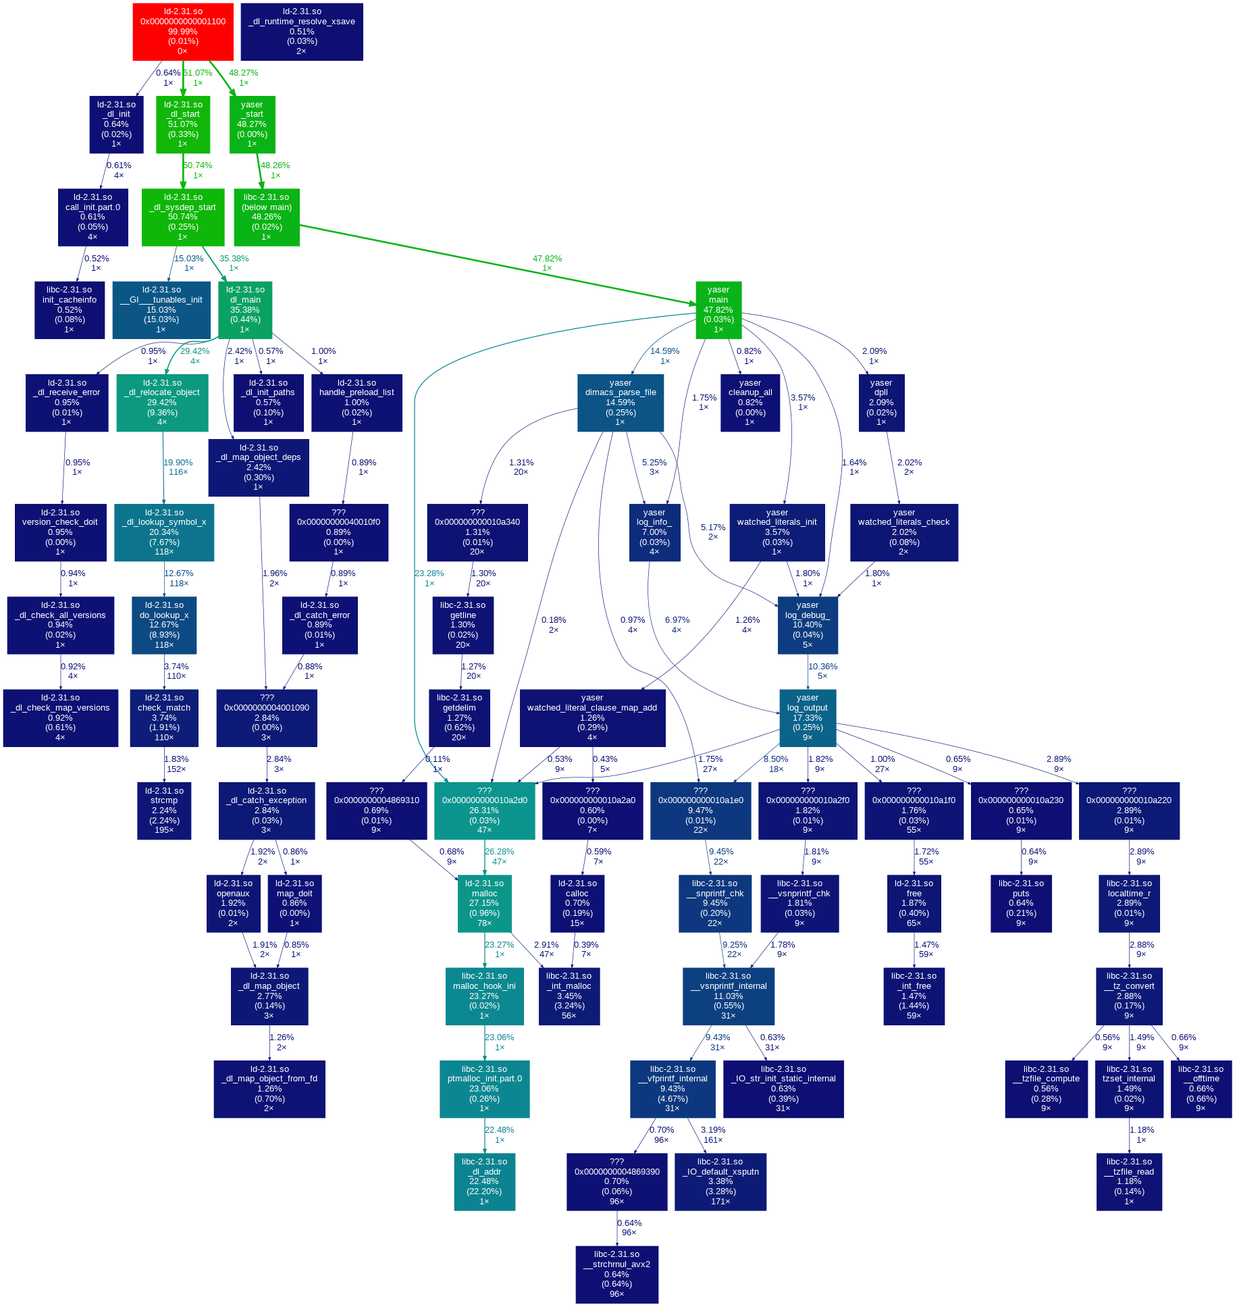
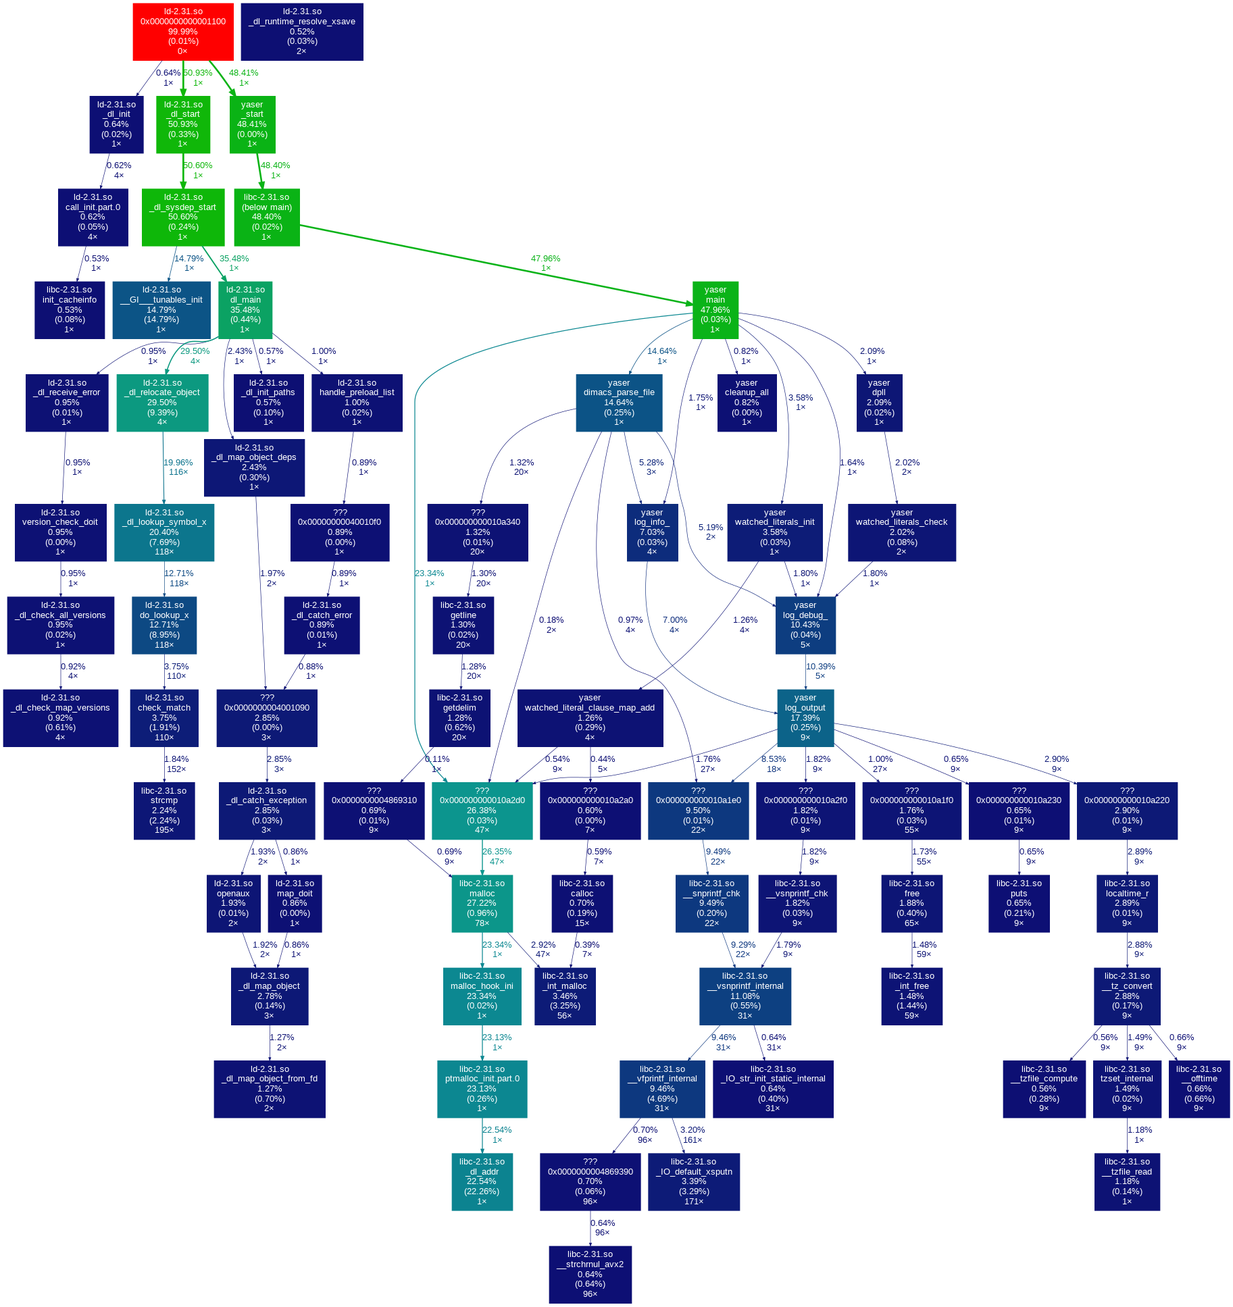
Deploying to gh-pages from @ marcluque/YASER@cdcf742cfaf6ff5cc95c408b56e193f32917be9e 🚀

diff --git a/searchindex.js b/searchindex.js
@@ -1,1 +1,1 @@
-Search.setIndex({"docnames": ["index", "reports/address-sanitizer", "reports/benchmark", "reports/callgrind", "reports/complexity", "reports/gnu-profiler", "reports/index", "reports/memory-sanitizer", "reports/ub-sanitizer", "reports/unit-test", "reports/valgrind-report"], "filenames": ["index.rst", "reports/address-sanitizer.rst", "reports/benchmark.rst", "reports/callgrind.rst", "reports/complexity.rst", "reports/gnu-profiler.rst", "reports/index.rst", "reports/memory-sanitizer.rst", "reports/ub-sanitizer.rst", "reports/unit-test.rst", "reports/valgrind-report.rst"], "titles": ["YASER\u2019s Documentation", "Address Sanitizer", "Benchmark", "Callgrind", "Complexity", "GNU Profiler", "Reports", "Memory Sanitizer", "Undefined Behavior Sanitizer", "Unit Test", "Valgrind"], "terms": {"20": [1, 3, 4, 7, 8, 10], "17": [1, 4, 7, 8], "38": 1, "yaser": [1, 3, 7, 8, 10], "32minfo": [1, 3, 7, 8, 10], "0m": [1, 3, 7, 8, 10], "dimacs_pars": [1, 3, 4, 7, 8, 10], "c": [1, 3, 4, 7, 8, 10], "32m": [1, 3, 7, 8, 10], "liter": [1, 3, 4, 7, 8, 10], "4": [1, 3, 4, 7, 8, 10], "distinct": [1, 3, 7, 8, 10], "variabl": [1, 3, 7, 8, 10], "2": [1, 3, 4, 7, 8, 10], "claus": [1, 3, 7, 8, 10], "3": [1, 3, 4, 7, 8, 10], "main": [1, 3, 4, 7, 8, 10], "32mresult": [1, 3, 7, 8, 10], "unsat": [1, 3, 7, 8, 10], "3679": 3, "call": 3, "graph": 3, "gener": 3, "cach": 3, "profil": [3, 6], "copyright": [3, 10], "2002": [3, 10], "2017": [3, 10], "gnu": [3, 6, 10], "gpl": [3, 10], "d": [3, 10], "josef": 3, "weidendorf": 3, "et": [3, 10], "al": [3, 10], "us": [3, 10], "valgrind": [3, 6], "15": [3, 4, 10], "0": [3, 4, 10], "libvex": [3, 10], "rerun": [3, 10], "h": [3, 10], "info": [3, 10], "command": [3, 10], "i": [3, 10], "satlib": [3, 10], "pigeonhol": [3, 10], "1": [3, 4, 10], "cnf": [3, 10], "warn": 3, "l3": 3, "found": 3, "its": 3, "data": 3, "ll": 3, "simul": 3, "For": [3, 10], "interact": 3, "control": 3, "run": 3, "callgrind_control": 3, "18": [3, 4, 10], "01": 3, "36mdebug": [3, 10], "36msuccessfulli": [3, 10], "open": [3, 10], "file": [3, 4, 10], "36mpars": [3, 10], "formula": [3, 4, 10], "x1": [3, 10], "x2": [3, 10], "watched_liter": [3, 4, 10], "36mwatch": [3, 10], "ar": [3, 10], "initi": [3, 10], "36miniti": [3, 10], "done": [3, 10], "36mclaus": [3, 10], "conflict": [3, 4, 10], "event": 3, "ir": 3, "dr": 3, "dw": 3, "i1mr": 3, "d1mr": 3, "d1mw": 3, "ilmr": 3, "dlmr": 3, "dlmw": 3, "bc": 3, "bcm": 3, "bi": 3, "bim": 3, "collect": 3, "322261": 3, "71065": 3, "26404": 3, "1823": 3, "2713": 3, "766": 3, "1683": 3, "2206": 3, "697": 3, "61040": 3, "7145": 3, "1223": 3, "284": 3, "ref": 3, "322": 3, "261": 3, "i1": 3, "miss": 3, "823": 3, "lli": 3, "683": 3, "rate": 3, "57": 3, "52": 3, "97": 3, "469": 3, "71": 3, "065": 3, "rd": 3, "26": 3, "404": 3, "wr": 3, "d1": 3, "479": 3, "713": 3, "lld": 3, "903": 3, "206": 3, "6": [3, 4], "8": [3, 4], "9": [3, 4], "5": [3, 4], "302": 3, "536": 3, "586": 3, "889": 3, "branch": 3, "62": [3, 4], "263": 3, "61": 3, "040": 3, "cond": 3, "223": 3, "ind": 3, "mispredict": 3, "7": [3, 4], "429": 3, "145": 3, "mispr": 3, "11": [3, 4], "23": [3, 4], "score": 4, "ln": 4, "ct": 4, "nc": 4, "name": 4, "line": 4, "proc": 4, "src": 4, "watch": 4, "sat_clause_set": 4, "24": 4, "sat_clause_set_exists_unsat": 4, "assign": 4, "assignment_stack": 4, "assignment_stack_clear": 4, "21": 4, "assignment_stack_reset": 4, "27": 4, "assignment_stack_empti": 4, "31": 4, "assignment_stack_ful": 4, "unit_clause_stack": 4, "unit_clause_stack_clear": 4, "unit_clause_stack_reset": 4, "25": 4, "unit_clause_stack_empti": 4, "29": 4, "unit_clause_stack_ful": 4, "sat_clause_set_add": 4, "sat_clause_set_contain": 4, "41": 4, "unit_clause_stack_pop": 4, "global": 4, "34": 4, "formula_clear": 4, "47": 4, "assignment_stack_pop": 4, "10": 4, "assignment_stack_init": 4, "unit_clause_stack_init": 4, "log": 4, "42": [4, 8], "log_info_": 4, "51": 4, "log_error_": 4, "33": 4, "unit_clause_stack_push": 4, "32": 4, "log_debug_": 4, "dpll": 4, "update_assign": 4, "clause_resolut": 4, "resolvent_variable_table_clear": 4, "conflict_resolut": 4, "resolve_conflict": 4, "clause_literal_map": 4, "clause_literal_map_clear": 4, "clause_literal_map_get": 4, "watched_literal_clause_map": 4, "watched_literal_clause_map_get": 4, "12": 4, "cleanup": 4, "cleanup_al": 4, "13": 4, "resolvent_literal_table_add": 4, "watched_literal_clause_map_clear": 4, "pars": 4, "init": 4, "30": 4, "decid": 4, "35": 4, "assignment_stack_push": 4, "bcp": 4, "backtrack": 4, "clause_literal_map_add": 4, "79": 4, "tokenize_head": 4, "formula_init": 4, "tokenize_claus": 4, "92": 4, "watched_literals_check": 4, "19": 4, "log_output": 4, "watched_literals_init": 4, "16": 4, "14": 4, "55": 4, "find_new_liter": 4, "watched_literal_clause_map_add": 4, "parse_flag": 4, "28": 4, "46": 4, "43": [4, 7], "check_watched_literal_partn": 4, "print_formula": 4, "clause_resolution_build_resolv": 4, "76": 4, "100": 4, "dimacs_parse_fil": 4, "histogram": 4, "rang": 4, "lin": 4, "448": 4, "procedur": 4, "50": 4, "non": 4, "comment": 4, "averag": 4, "il": 4, "75": 4, "higher": 4, "half": 4, "highest": 4, "address": 6, "sanit": 6, "benchmark": 6, "callgrind": 6, "complex": 6, "memori": [6, 10], "undefin": 6, "behavior": 6, "unit": 6, "test": 6, "gcov": 6, "3101": 10, "memcheck": 10, "error": 10, "detector": 10, "julian": 10, "seward": 10, "00": 10, "heap": 10, "summari": 10, "exit": 10, "byte": 10, "block": 10, "total": 10, "usag": 10, "63": 10, "alloc": 10, "free": 10, "90": 10, "514": 10, "all": 10, "were": 10, "freed": 10, "leak": 10, "possibl": 10, "list": 10, "detect": 10, "suppress": 10, "": 10, "from": 10, "context": 10}, "objects": {}, "objtypes": {}, "objnames": {}, "titleterms": {"yaser": 0, "": 0, "document": 0, "address": 1, "sanit": [1, 7, 8], "benchmark": 2, "callgrind": 3, "complex": 4, "gnu": 5, "profil": 5, "report": 6, "memori": 7, "undefin": 8, "behavior": 8, "unit": 9, "test": 9, "valgrind": 10}, "envversion": {"sphinx.domains.c": 2, "sphinx.domains.changeset": 1, "sphinx.domains.citation": 1, "sphinx.domains.cpp": 6, "sphinx.domains.index": 1, "sphinx.domains.javascript": 2, "sphinx.domains.math": 2, "sphinx.domains.python": 3, "sphinx.domains.rst": 2, "sphinx.domains.std": 2, "sphinx.ext.intersphinx": 1, "sphinx.ext.todo": 2, "sphinx.ext.viewcode": 1, "sphinx": 56}})
+Search.setIndex({"docnames": ["index", "reports/address-sanitizer", "reports/benchmark", "reports/callgrind", "reports/complexity", "reports/gnu-profiler", "reports/index", "reports/memory-sanitizer", "reports/ub-sanitizer", "reports/unit-test", "reports/valgrind-report"], "filenames": ["index.rst", "reports/address-sanitizer.rst", "reports/benchmark.rst", "reports/callgrind.rst", "reports/complexity.rst", "reports/gnu-profiler.rst", "reports/index.rst", "reports/memory-sanitizer.rst", "reports/ub-sanitizer.rst", "reports/unit-test.rst", "reports/valgrind-report.rst"], "titles": ["YASER\u2019s Documentation", "Address Sanitizer", "Benchmark", "Callgrind", "Complexity", "GNU Profiler", "Reports", "Memory Sanitizer", "Undefined Behavior Sanitizer", "Unit Test", "Valgrind"], "terms": {"20": [1, 3, 4, 7, 8, 10], "34": [1, 4, 7, 8, 10], "31": [1, 3, 4], "yaser": [1, 3, 7, 8, 10], "32minfo": [1, 3, 7, 8, 10], "0m": [1, 3, 7, 8, 10], "dimacs_pars": [1, 3, 4, 7, 8, 10], "c": [1, 3, 4, 7, 8, 10], "32m": [1, 3, 7, 8, 10], "liter": [1, 3, 4, 7, 8, 10], "4": [1, 3, 4, 7, 8, 10], "distinct": [1, 3, 7, 8, 10], "variabl": [1, 3, 7, 8, 10], "2": [1, 3, 4, 7, 8, 10], "claus": [1, 3, 7, 8, 10], "3": [1, 3, 4, 7, 8, 10], "main": [1, 3, 4, 7, 8, 10], "32mresult": [1, 3, 7, 8, 10], "unsat": [1, 3, 7, 8, 10], "3771": 3, "call": 3, "graph": 3, "gener": 3, "cach": 3, "profil": [3, 6], "copyright": [3, 10], "2002": [3, 10], "2017": [3, 10], "gnu": [3, 6, 10], "gpl": [3, 10], "d": [3, 10], "josef": 3, "weidendorf": 3, "et": [3, 10], "al": [3, 10], "us": [3, 10], "valgrind": [3, 6], "15": [3, 4, 10], "0": [3, 4, 10], "libvex": [3, 10], "rerun": [3, 10], "h": [3, 10], "info": [3, 10], "command": [3, 10], "i": [3, 10], "satlib": [3, 10], "pigeonhol": [3, 10], "1": [3, 4, 10], "cnf": [3, 10], "warn": 3, "l3": 3, "found": 3, "its": 3, "data": 3, "ll": 3, "simul": 3, "specifi": 3, "line_s": 3, "64": 3, "assoc": 3, "total_s": 3, "457": 3, "280": 3, "30": [3, 4], "For": [3, 10], "interact": 3, "control": 3, "run": 3, "callgrind_control": 3, "35": [3, 4], "04": 3, "36mdebug": [3, 10], "36msuccessfulli": [3, 10], "open": [3, 10], "file": [3, 4, 10], "05": 3, "36mpars": [3, 10], "formula": [3, 4, 10], "x1": [3, 10], "x2": [3, 10], "watched_liter": [3, 4, 10], "36mwatch": [3, 10], "ar": [3, 10], "initi": [3, 10], "36miniti": [3, 10], "done": [3, 10], "36mclaus": [3, 10], "conflict": [3, 4, 10], "event": 3, "ir": 3, "dr": 3, "dw": 3, "i1mr": 3, "d1mr": 3, "d1mw": 3, "ilmr": 3, "dlmr": 3, "dlmw": 3, "bc": 3, "bcm": 3, "bi": 3, "bim": 3, "collect": 3, "321366": 3, "70888": 3, "26401": 3, "1824": 3, "2808": 3, "765": 3, "1683": 3, "2204": 3, "695": 3, "60759": 3, "7114": 3, "1223": 3, "284": 3, "ref": 3, "321": 3, "366": 3, "i1": 3, "miss": 3, "824": 3, "lli": 3, "683": 3, "rate": 3, "57": 3, "52": 3, "97": 3, "289": 3, "70": 3, "888": 3, "rd": 3, "26": 3, "401": 3, "wr": 3, "d1": 3, "573": 3, "808": 3, "lld": 3, "899": 3, "204": 3, "7": [3, 4], "9": [3, 4], "6": [3, 4], "5": [3, 4], "397": 3, "632": 3, "582": 3, "887": 3, "branch": 3, "61": 3, "982": 3, "60": 3, "759": 3, "cond": 3, "223": 3, "ind": 3, "mispredict": 3, "398": 3, "114": 3, "mispr": 3, "11": [3, 4], "23": [3, 4], "score": 4, "ln": 4, "ct": 4, "nc": 4, "name": 4, "line": 4, "proc": 4, "src": 4, "watch": 4, "sat_clause_set": 4, "24": 4, "sat_clause_set_exists_unsat": 4, "assign": 4, "assignment_stack": 4, "17": 4, "assignment_stack_clear": 4, "21": 4, "assignment_stack_reset": 4, "27": 4, "assignment_stack_empti": 4, "assignment_stack_ful": 4, "unit_clause_stack": 4, "unit_clause_stack_clear": 4, "unit_clause_stack_reset": 4, "25": 4, "unit_clause_stack_empti": 4, "29": [4, 8], "unit_clause_stack_ful": 4, "18": 4, "sat_clause_set_add": 4, "sat_clause_set_contain": 4, "41": 4, "unit_clause_stack_pop": 4, "global": 4, "formula_clear": 4, "47": 4, "assignment_stack_pop": 4, "10": 4, "assignment_stack_init": 4, "unit_clause_stack_init": 4, "log": 4, "42": 4, "log_info_": 4, "51": 4, "log_error_": 4, "33": 4, "unit_clause_stack_push": 4, "32": 4, "log_debug_": 4, "dpll": 4, "update_assign": 4, "clause_resolut": 4, "resolvent_variable_table_clear": 4, "8": 4, "conflict_resolut": 4, "resolve_conflict": 4, "clause_literal_map": 4, "clause_literal_map_clear": 4, "clause_literal_map_get": 4, "watched_literal_clause_map": 4, "watched_literal_clause_map_get": 4, "12": 4, "cleanup": 4, "cleanup_al": 4, "13": 4, "resolvent_literal_table_add": 4, "watched_literal_clause_map_clear": 4, "pars": 4, "init": 4, "decid": 4, "assignment_stack_push": 4, "bcp": 4, "backtrack": 4, "clause_literal_map_add": 4, "79": 4, "tokenize_head": 4, "formula_init": 4, "62": 4, "tokenize_claus": 4, "92": 4, "watched_literals_check": 4, "19": 4, "log_output": 4, "watched_literals_init": 4, "16": 4, "14": 4, "55": 4, "find_new_liter": 4, "watched_literal_clause_map_add": 4, "parse_flag": 4, "28": [4, 7], "46": 4, "43": [4, 10], "check_watched_literal_partn": 4, "print_formula": 4, "clause_resolution_build_resolv": 4, "76": 4, "100": 4, "dimacs_parse_fil": 4, "histogram": 4, "rang": 4, "lin": 4, "448": 4, "procedur": 4, "50": 4, "non": 4, "comment": 4, "averag": 4, "il": 4, "75": 4, "higher": 4, "half": 4, "highest": 4, "address": 6, "sanit": 6, "benchmark": 6, "callgrind": 6, "complex": 6, "memori": [6, 10], "undefin": 6, "behavior": 6, "unit": 6, "test": 6, "gcov": 6, "3283": 10, "memcheck": 10, "error": 10, "detector": 10, "julian": 10, "seward": 10, "heap": 10, "summari": 10, "exit": 10, "byte": 10, "block": 10, "total": 10, "usag": 10, "63": 10, "alloc": 10, "free": 10, "90": 10, "514": 10, "all": 10, "were": 10, "freed": 10, "leak": 10, "possibl": 10, "list": 10, "detect": 10, "suppress": 10, "": 10, "from": 10, "context": 10}, "objects": {}, "objtypes": {}, "objnames": {}, "titleterms": {"yaser": 0, "": 0, "document": 0, "address": 1, "sanit": [1, 7, 8], "benchmark": 2, "callgrind": 3, "complex": 4, "gnu": 5, "profil": 5, "report": 6, "memori": 7, "undefin": 8, "behavior": 8, "unit": 9, "test": 9, "valgrind": 10}, "envversion": {"sphinx.domains.c": 2, "sphinx.domains.changeset": 1, "sphinx.domains.citation": 1, "sphinx.domains.cpp": 6, "sphinx.domains.index": 1, "sphinx.domains.javascript": 2, "sphinx.domains.math": 2, "sphinx.domains.python": 3, "sphinx.domains.rst": 2, "sphinx.domains.std": 2, "sphinx.ext.intersphinx": 1, "sphinx.ext.todo": 2, "sphinx.ext.viewcode": 1, "sphinx": 56}})

diff --git a/reports/callgrind.html b/reports/callgrind.html
@@ -81,45 +81,47 @@
              
   <section id="callgrind">
 <span id="reports-callgrind"></span><h1>Callgrind<a class="headerlink" href="#callgrind" title="Permalink to this heading"></a></h1>
-<div class="highlight-C notranslate"><div class="highlight"><pre><span></span>==3679== Callgrind, a call-graph generating cache profiler
-==3679== Copyright (C) 2002-2017, and GNU GPL&#39;d, by Josef Weidendorfer et al.
-==3679== Using Valgrind-3.15.0 and LibVEX; rerun with -h for copyright info
-==3679== Command: ./yaser -i satlib/pigeonhole/pigeonhole-1.cnf
-==3679== 
---3679-- warning: L3 cache found, using its data for the LL simulation.
-==3679== For interactive control, run &#39;callgrind_control -h&#39;.
-[20:18:01][YASER - [36mDEBUG[0m][dimacs_parser.c]: [36mSuccessfully opened file (satlib/pigeonhole/pigeonhole-1.cnf)[0m
-[20:18:01][YASER - [32mINFO[0m][dimacs_parser.c]: [32m#Literals=4 (not distinct)[0m
-[20:18:01][YASER - [32mINFO[0m][dimacs_parser.c]: [32m#Variables=2[0m
-[20:18:01][YASER - [32mINFO[0m][dimacs_parser.c]: [32m#Clauses=3[0m
-[20:18:01][YASER - [36mDEBUG[0m][dimacs_parser.c]: [36mParsed formula (x1) ∧ (x2) ∧ (¬x1 ∨ ¬x2)[0m
-[20:18:01][YASER - [36mDEBUG[0m][watched_literals.c]: [36mWatched Literals are initialized...[0m
-[20:18:01][YASER - [36mDEBUG[0m][main.c]: [36mInitialization done...[0m
-[20:18:01][YASER - [36mDEBUG[0m][watched_literals.c]: [36mClause 0 is conflicting[0m
-[20:18:01][YASER - [32mINFO[0m][main.c]: [32mRESULT: UNSAT[0m
-==3679== 
-==3679== Events    : Ir Dr Dw I1mr D1mr D1mw ILmr DLmr DLmw Bc Bcm Bi Bim
-==3679== Collected : 322261 71065 26404 1823 2713 766 1683 2206 697 61040 7145 1223 284
-==3679== 
-==3679== I   refs:      322,261
-==3679== I1  misses:      1,823
-==3679== LLi misses:      1,683
-==3679== I1  miss rate:    0.57%
-==3679== LLi miss rate:    0.52%
-==3679== 
-==3679== D   refs:       97,469  (71,065 rd + 26,404 wr)
-==3679== D1  misses:      3,479  ( 2,713 rd +    766 wr)
-==3679== LLd misses:      2,903  ( 2,206 rd +    697 wr)
-==3679== D1  miss rate:     3.6% (   3.8%   +    2.9%  )
-==3679== LLd miss rate:     3.0% (   3.1%   +    2.6%  )
-==3679== 
-==3679== LL refs:         5,302  ( 4,536 rd +    766 wr)
-==3679== LL misses:       4,586  ( 3,889 rd +    697 wr)
-==3679== LL miss rate:      1.1% (   1.0%   +    2.6%  )
-==3679== 
-==3679== Branches:       62,263  (61,040 cond +  1,223 ind)
-==3679== Mispredicts:     7,429  ( 7,145 cond +    284 ind)
-==3679== Mispred rate:     11.9% (  11.7%     +   23.2%   )
+<div class="highlight-C notranslate"><div class="highlight"><pre><span></span>==3771== Callgrind, a call-graph generating cache profiler
+==3771== Copyright (C) 2002-2017, and GNU GPL&#39;d, by Josef Weidendorfer et al.
+==3771== Using Valgrind-3.15.0 and LibVEX; rerun with -h for copyright info
+==3771== Command: ./yaser -i satlib/pigeonhole/pigeonhole-1.cnf
+==3771== 
+--3771-- warning: L3 cache found, using its data for the LL simulation.
+--3771-- warning: specified LL cache: line_size 64  assoc 20  total_size 31,457,280
+--3771-- warning: simulated LL cache: line_size 64  assoc 30  total_size 31,457,280
+==3771== For interactive control, run &#39;callgrind_control -h&#39;.
+[20:35:04][YASER - [36mDEBUG[0m][dimacs_parser.c]: [36mSuccessfully opened file (satlib/pigeonhole/pigeonhole-1.cnf)[0m
+[20:35:05][YASER - [32mINFO[0m][dimacs_parser.c]: [32m#Literals=4 (not distinct)[0m
+[20:35:05][YASER - [32mINFO[0m][dimacs_parser.c]: [32m#Variables=2[0m
+[20:35:05][YASER - [32mINFO[0m][dimacs_parser.c]: [32m#Clauses=3[0m
+[20:35:05][YASER - [36mDEBUG[0m][dimacs_parser.c]: [36mParsed formula (x1) ∧ (x2) ∧ (¬x1 ∨ ¬x2)[0m
+[20:35:05][YASER - [36mDEBUG[0m][watched_literals.c]: [36mWatched Literals are initialized...[0m
+[20:35:05][YASER - [36mDEBUG[0m][main.c]: [36mInitialization done...[0m
+[20:35:05][YASER - [36mDEBUG[0m][watched_literals.c]: [36mClause 0 is conflicting[0m
+[20:35:05][YASER - [32mINFO[0m][main.c]: [32mRESULT: UNSAT[0m
+==3771== 
+==3771== Events    : Ir Dr Dw I1mr D1mr D1mw ILmr DLmr DLmw Bc Bcm Bi Bim
+==3771== Collected : 321366 70888 26401 1824 2808 765 1683 2204 695 60759 7114 1223 284
+==3771== 
+==3771== I   refs:      321,366
+==3771== I1  misses:      1,824
+==3771== LLi misses:      1,683
+==3771== I1  miss rate:    0.57%
+==3771== LLi miss rate:    0.52%
+==3771== 
+==3771== D   refs:       97,289  (70,888 rd + 26,401 wr)
+==3771== D1  misses:      3,573  ( 2,808 rd +    765 wr)
+==3771== LLd misses:      2,899  ( 2,204 rd +    695 wr)
+==3771== D1  miss rate:     3.7% (   4.0%   +    2.9%  )
+==3771== LLd miss rate:     3.0% (   3.1%   +    2.6%  )
+==3771== 
+==3771== LL refs:         5,397  ( 4,632 rd +    765 wr)
+==3771== LL misses:       4,582  ( 3,887 rd +    695 wr)
+==3771== LL miss rate:      1.1% (   1.0%   +    2.6%  )
+==3771== 
+==3771== Branches:       61,982  (60,759 cond +  1,223 ind)
+==3771== Mispredicts:     7,398  ( 7,114 cond +    284 ind)
+==3771== Mispred rate:     11.9% (  11.7%     +   23.2%   )
 </pre></div>
 </div>
 <img alt="gprof report" src="../_images/callgrind-report.png" />

diff --git a/reports/valgrind-report.html b/reports/valgrind-report.html
@@ -80,29 +80,29 @@
              
   <section id="valgrind">
 <span id="reports-valgrind"></span><h1>Valgrind<a class="headerlink" href="#valgrind" title="Permalink to this heading"></a></h1>
-<div class="highlight-C notranslate"><div class="highlight"><pre><span></span>==3101== Memcheck, a memory error detector
-==3101== Copyright (C) 2002-2017, and GNU GPL&#39;d, by Julian Seward et al.
-==3101== Using Valgrind-3.15.0 and LibVEX; rerun with -h for copyright info
-==3101== Command: ./yaser -i satlib/pigeonhole/pigeonhole-1.cnf
-==3101== 
-[20:18:00][YASER - [36mDEBUG[0m][dimacs_parser.c]: [36mSuccessfully opened file (satlib/pigeonhole/pigeonhole-1.cnf)[0m
-[20:18:00][YASER - [32mINFO[0m][dimacs_parser.c]: [32m#Literals=4 (not distinct)[0m
-[20:18:00][YASER - [32mINFO[0m][dimacs_parser.c]: [32m#Variables=2[0m
-[20:18:00][YASER - [32mINFO[0m][dimacs_parser.c]: [32m#Clauses=3[0m
-[20:18:00][YASER - [36mDEBUG[0m][dimacs_parser.c]: [36mParsed formula (x1) ∧ (x2) ∧ (¬x1 ∨ ¬x2)[0m
-[20:18:00][YASER - [36mDEBUG[0m][watched_literals.c]: [36mWatched Literals are initialized...[0m
-[20:18:00][YASER - [36mDEBUG[0m][main.c]: [36mInitialization done...[0m
-[20:18:00][YASER - [36mDEBUG[0m][watched_literals.c]: [36mClause 0 is conflicting[0m
-[20:18:00][YASER - [32mINFO[0m][main.c]: [32mRESULT: UNSAT[0m
-==3101== 
-==3101== HEAP SUMMARY:
-==3101==     in use at exit: 0 bytes in 0 blocks
-==3101==   total heap usage: 63 allocs, 63 frees, 90,514 bytes allocated
-==3101== 
-==3101== All heap blocks were freed -- no leaks are possible
-==3101== 
-==3101== For lists of detected and suppressed errors, rerun with: -s
-==3101== ERROR SUMMARY: 0 errors from 0 contexts (suppressed: 0 from 0)
+<div class="highlight-C notranslate"><div class="highlight"><pre><span></span>==3283== Memcheck, a memory error detector
+==3283== Copyright (C) 2002-2017, and GNU GPL&#39;d, by Julian Seward et al.
+==3283== Using Valgrind-3.15.0 and LibVEX; rerun with -h for copyright info
+==3283== Command: ./yaser -i satlib/pigeonhole/pigeonhole-1.cnf
+==3283== 
+[20:34:43][YASER - [36mDEBUG[0m][dimacs_parser.c]: [36mSuccessfully opened file (satlib/pigeonhole/pigeonhole-1.cnf)[0m
+[20:34:43][YASER - [32mINFO[0m][dimacs_parser.c]: [32m#Literals=4 (not distinct)[0m
+[20:34:43][YASER - [32mINFO[0m][dimacs_parser.c]: [32m#Variables=2[0m
+[20:34:43][YASER - [32mINFO[0m][dimacs_parser.c]: [32m#Clauses=3[0m
+[20:34:43][YASER - [36mDEBUG[0m][dimacs_parser.c]: [36mParsed formula (x1) ∧ (x2) ∧ (¬x1 ∨ ¬x2)[0m
+[20:34:43][YASER - [36mDEBUG[0m][watched_literals.c]: [36mWatched Literals are initialized...[0m
+[20:34:43][YASER - [36mDEBUG[0m][main.c]: [36mInitialization done...[0m
+[20:34:43][YASER - [36mDEBUG[0m][watched_literals.c]: [36mClause 0 is conflicting[0m
+[20:34:43][YASER - [32mINFO[0m][main.c]: [32mRESULT: UNSAT[0m
+==3283== 
+==3283== HEAP SUMMARY:
+==3283==     in use at exit: 0 bytes in 0 blocks
+==3283==   total heap usage: 63 allocs, 63 frees, 90,514 bytes allocated
+==3283== 
+==3283== All heap blocks were freed -- no leaks are possible
+==3283== 
+==3283== For lists of detected and suppressed errors, rerun with: -s
+==3283== ERROR SUMMARY: 0 errors from 0 contexts (suppressed: 0 from 0)
 </pre></div>
 </div>
 </section>

diff --git a/reports/ub-sanitizer.html b/reports/ub-sanitizer.html
@@ -81,10 +81,10 @@
              
   <section id="undefined-behavior-sanitizer">
 <span id="reports-ub-san"></span><h1>Undefined Behavior Sanitizer<a class="headerlink" href="#undefined-behavior-sanitizer" title="Permalink to this heading"></a></h1>
-<div class="highlight-C notranslate"><div class="highlight"><pre><span></span>[20:17:42][YASER - [32mINFO[0m][dimacs_parser.c]: [32m#Literals=4 (not distinct)[0m
-[20:17:42][YASER - [32mINFO[0m][dimacs_parser.c]: [32m#Variables=2[0m
-[20:17:42][YASER - [32mINFO[0m][dimacs_parser.c]: [32m#Clauses=3[0m
-[20:17:42][YASER - [32mINFO[0m][main.c]: [32mRESULT: UNSAT[0m
+<div class="highlight-C notranslate"><div class="highlight"><pre><span></span>[20:34:29][YASER - [32mINFO[0m][dimacs_parser.c]: [32m#Literals=4 (not distinct)[0m
+[20:34:29][YASER - [32mINFO[0m][dimacs_parser.c]: [32m#Variables=2[0m
+[20:34:29][YASER - [32mINFO[0m][dimacs_parser.c]: [32m#Clauses=3[0m
+[20:34:29][YASER - [32mINFO[0m][main.c]: [32mRESULT: UNSAT[0m
 </pre></div>
 </div>
 </section>

diff --git a/reports/address-sanitizer.html b/reports/address-sanitizer.html
@@ -81,10 +81,10 @@
              
   <section id="address-sanitizer">
 <span id="reports-address-san"></span><h1>Address Sanitizer<a class="headerlink" href="#address-sanitizer" title="Permalink to this heading"></a></h1>
-<div class="highlight-C notranslate"><div class="highlight"><pre><span></span>[20:17:38][YASER - [32mINFO[0m][dimacs_parser.c]: [32m#Literals=4 (not distinct)[0m
-[20:17:38][YASER - [32mINFO[0m][dimacs_parser.c]: [32m#Variables=2[0m
-[20:17:38][YASER - [32mINFO[0m][dimacs_parser.c]: [32m#Clauses=3[0m
-[20:17:38][YASER - [32mINFO[0m][main.c]: [32mRESULT: UNSAT[0m
+<div class="highlight-C notranslate"><div class="highlight"><pre><span></span>[20:34:31][YASER - [32mINFO[0m][dimacs_parser.c]: [32m#Literals=4 (not distinct)[0m
+[20:34:31][YASER - [32mINFO[0m][dimacs_parser.c]: [32m#Variables=2[0m
+[20:34:31][YASER - [32mINFO[0m][dimacs_parser.c]: [32m#Clauses=3[0m
+[20:34:31][YASER - [32mINFO[0m][main.c]: [32mRESULT: UNSAT[0m
 </pre></div>
 </div>
 </section>

diff --git a/reports/memory-sanitizer.html b/reports/memory-sanitizer.html
@@ -81,10 +81,10 @@
              
   <section id="memory-sanitizer">
 <span id="reports-memory-san"></span><h1>Memory Sanitizer<a class="headerlink" href="#memory-sanitizer" title="Permalink to this heading"></a></h1>
-<div class="highlight-C notranslate"><div class="highlight"><pre><span></span>[20:17:43][YASER - [32mINFO[0m][dimacs_parser.c]: [32m#Literals=4 (not distinct)[0m
-[20:17:43][YASER - [32mINFO[0m][dimacs_parser.c]: [32m#Variables=2[0m
-[20:17:43][YASER - [32mINFO[0m][dimacs_parser.c]: [32m#Clauses=3[0m
-[20:17:43][YASER - [32mINFO[0m][main.c]: [32mRESULT: UNSAT[0m
+<div class="highlight-C notranslate"><div class="highlight"><pre><span></span>[20:34:28][YASER - [32mINFO[0m][dimacs_parser.c]: [32m#Literals=4 (not distinct)[0m
+[20:34:28][YASER - [32mINFO[0m][dimacs_parser.c]: [32m#Variables=2[0m
+[20:34:28][YASER - [32mINFO[0m][dimacs_parser.c]: [32m#Clauses=3[0m
+[20:34:28][YASER - [32mINFO[0m][main.c]: [32mRESULT: UNSAT[0m
 </pre></div>
 </div>
 </section>
